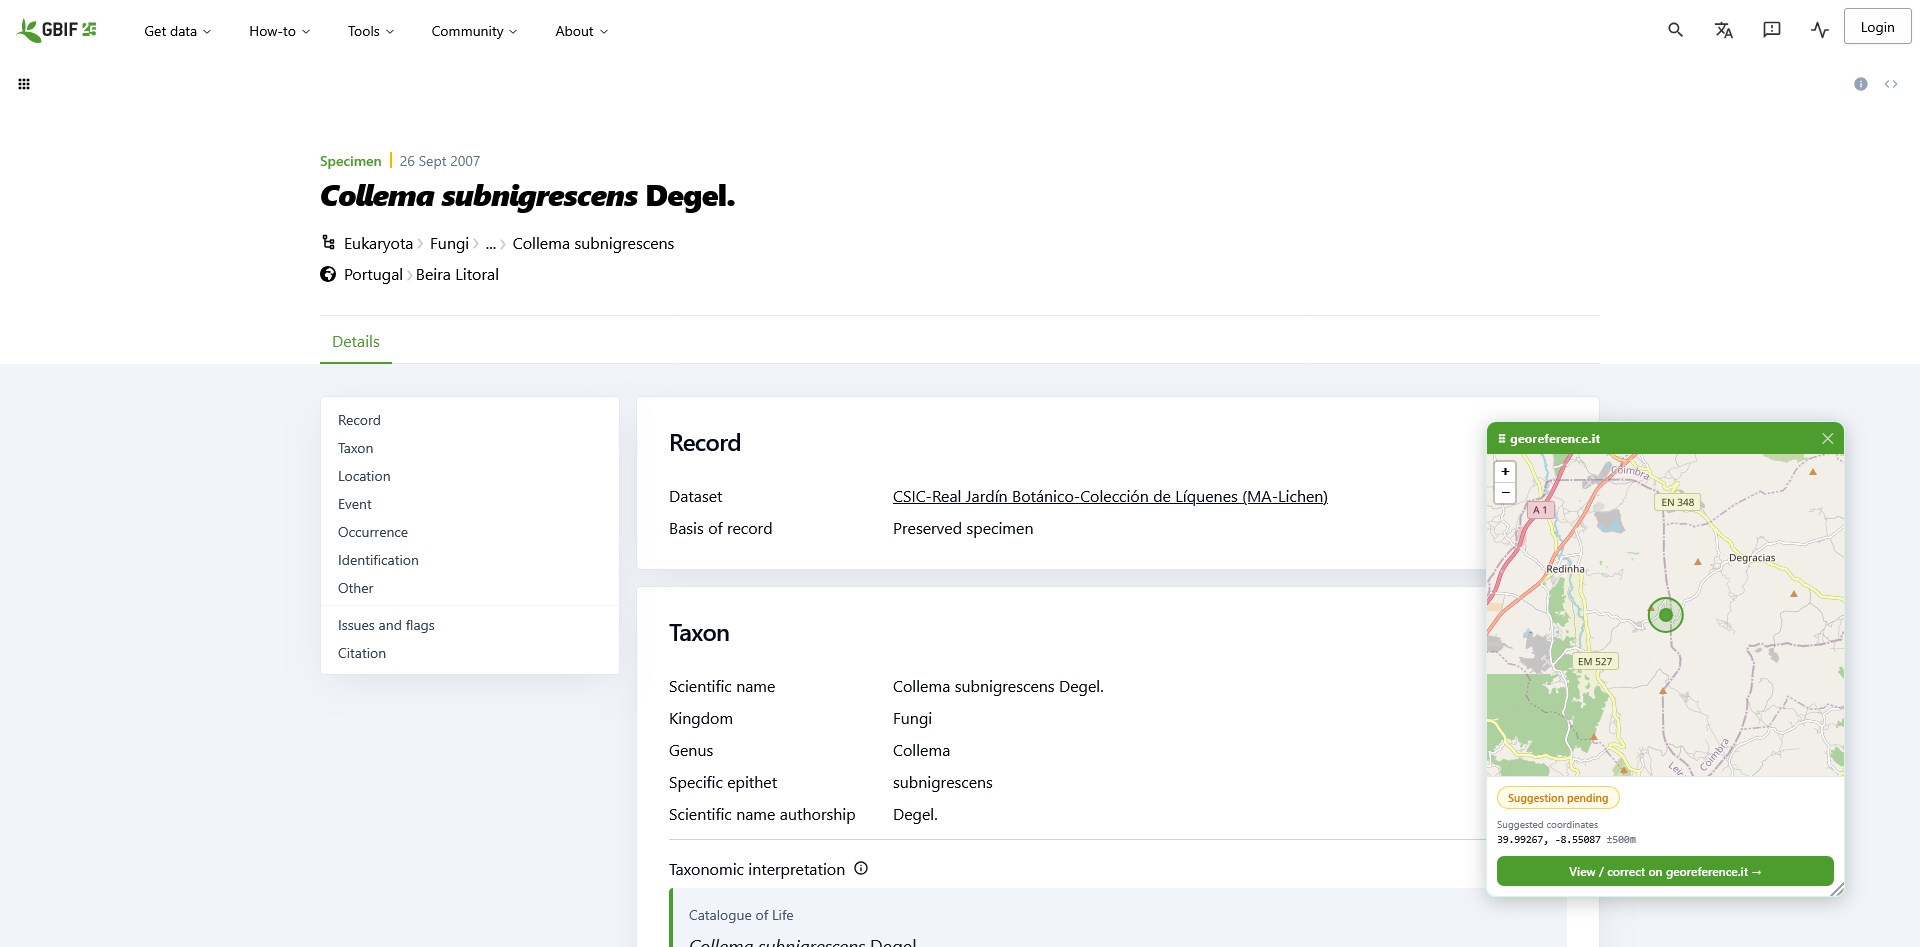
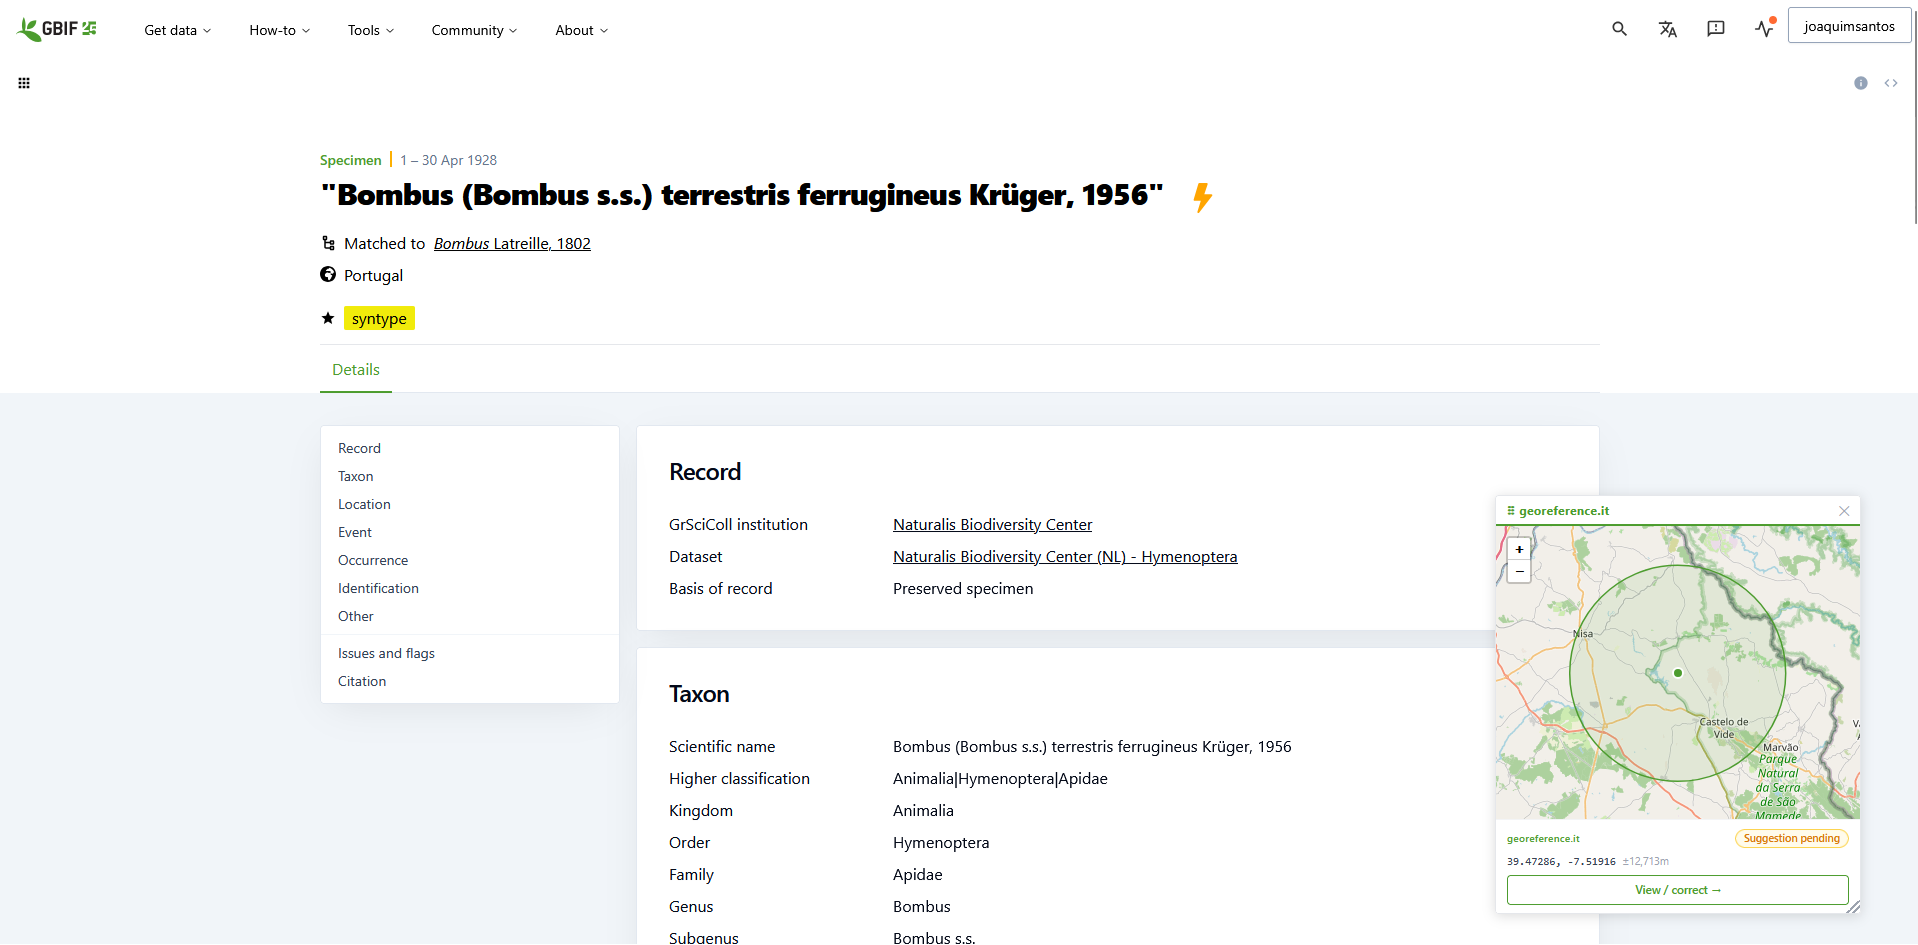
feat: rename footer 'Extension' link to 'Browser extensions', update screenshot

diff --git a/resources/views/components/layouts/app.blade.php b/resources/views/components/layouts/app.blade.php
@@ -98,7 +98,7 @@
                             <a href="{{ route('about') }}" class="hover:text-green-600">{{ __('About') }}</a>
                             <a href="{{ route('how-it-works') }}" class="hover:text-green-600">{{ __('How it works') }}</a>
                             <a href="{{ route('georeferencing-guide') }}" class="hover:text-green-600">{{ __('Georeferencing guide') }}</a>
-                            <a href="{{ route('extension') }}" class="hover:text-green-600">{{ __('Extension') }}</a>
+                            <a href="{{ route('extension') }}" class="hover:text-green-600">{{ __('Browser extensions') }}</a>
                             <a href="{{ route('api-docs') }}" class="hover:text-green-600 font-mono">API</a>
                             <a href="{{ route('cite') }}" class="hover:text-green-600">{{ __('Cite') }}</a>
                             <a href="https://github.com/joaquimsantos1978/georeference-it" target="_blank" class="hover:text-green-600">GitHub</a>